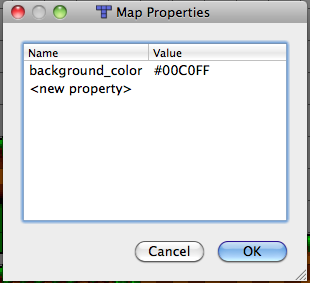
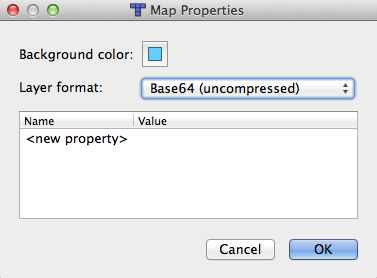
Updated tutorial to use the new map background color picker (instead of specifying a custom map property)

Changed region(s): [[0.0, 0.0, 1.0, 1.0], [0.4355, 0.8345, 0.9581, 0.9496]]

diff --git a/tutorial/index.html b/tutorial/index.html
@@ -163,9 +163,8 @@
                                                                       "media/step1_tiled_level_design.png"
                                                               alt="Tiled level design"/></p>
 
-<p>Finally, let's define a background color for our level, by adding a
-    "background_color" property to the map (Map/Map Properties), and just specify any
-    color (in CSS format) you prefer.</p><img src="media/step1_background_color.png" alt=
+<p>Finally, let's define a background color for our level, by using the color picker tool (Map/Map Properties), and just specify any
+    color you prefer.</p><img src="media/step1_background_color.png" alt=
         "Setting a background color in Tiled"/>
 
 <p>To finish, let's save our new map as "area01" under the "data" folder. We are done
@@ -572,10 +571,10 @@ init: function(x, y, settings) {
 <p>This one is very easy. We don't even have to add a single line of code, since
     everything is done through Tiled.</p>
 
-<p>First, let's remove in Tiled the "background_color" property (Map/Map properties)
-    that we added previously at the end of Part 1. Since the background will be filled
-    with our scrolling layers, we don't need the display to be cleared with a specific
-    color (furthermore it will save some precious frames).</p>
+<p>First, let's remove in Tiled the backgroun d color that we added previously at the end of Part 1.
+   (to do so, you will need to text edit the TMX file and remove the `backgroundcolor` property).
+   Since the background will be filled with our scrolling layers, we don't need the display to be 
+   cleared with a specific color (furthermore it will save some precious frames).</p>
 
 <p>Then we will use the two following backgrounds :</p>
 
